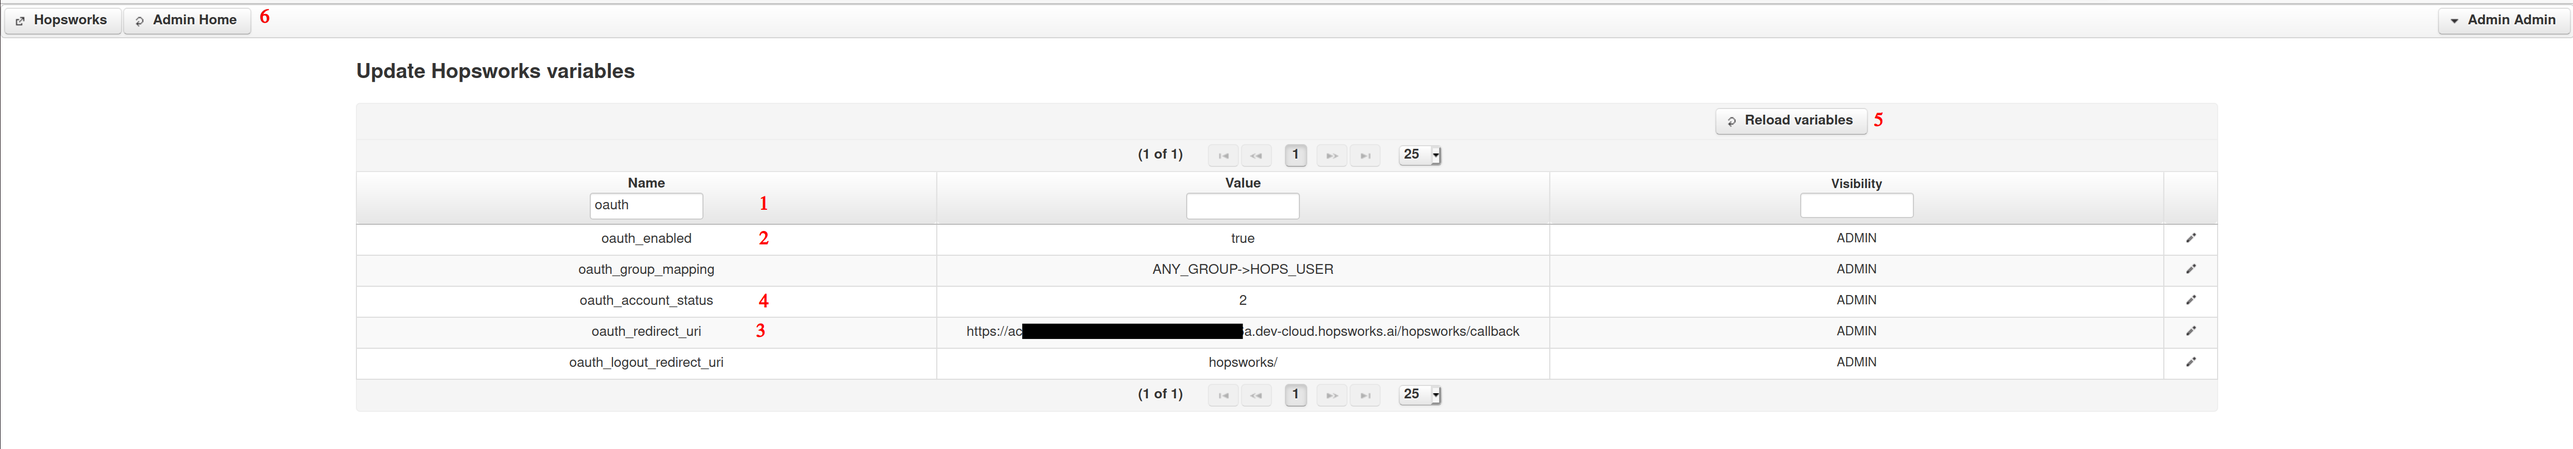
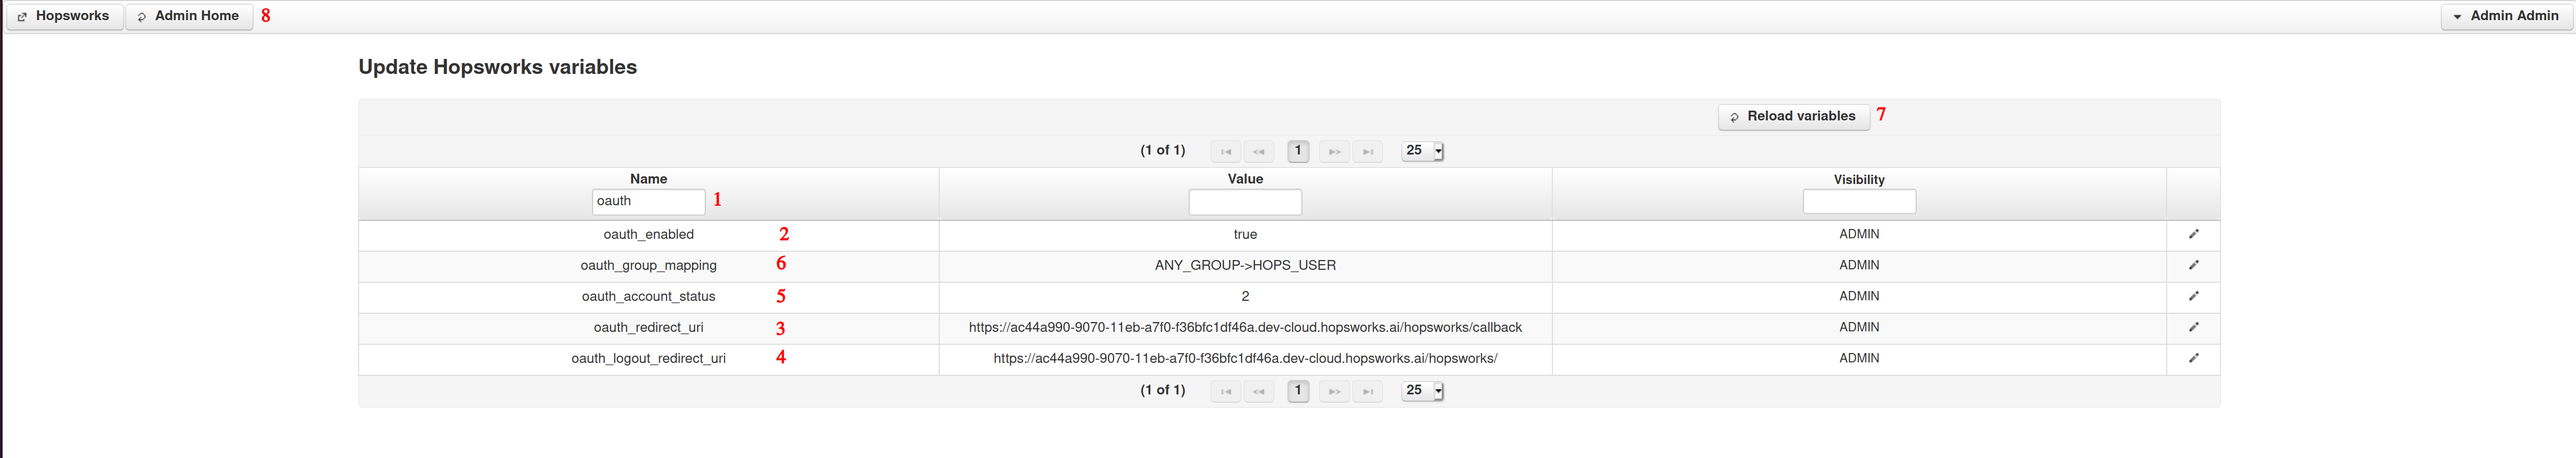
fixes for review

diff --git a/docs/hopsworksai/sso/oauth.md b/docs/hopsworksai/sso/oauth.md
@@ -1,10 +1,10 @@
 # Configure your hopsworks cluster to use OAuth2 for user management.
 Once you have created a Hopsworks cluster you can configure it to use OAuth2 for its access control.
 We will go through a step-by-step description of the configuration process.
-To illustrate our explanation We will use Azure Active Directory as the identity provider, but the same can be done with any resource provider supporting OAuth2.
+To illustrate our explanation We will use Azure Active Directory as the identity provider, but the same can be done with any identity provider supporting OAuth2.
 
 ## Step 1: Configure your identity provider.
-To use OAuth2 in hopsworks you first need to create and configure an OAuth client in your resource provider. We will take the example of Azure AD for the remaining of this documentation, but equivalent steps can be taken on other identity providers.
+To use OAuth2 in hopsworks you first need to create and configure an OAuth client in your identity provider. We will take the example of Azure AD for the remaining of this documentation, but equivalent steps can be taken on other identity providers.
 
 Navigate to the [Microsoft Azure Portal](https://portal.azure.com) and authenticate. Navigate to [Azure Active Directory](https://portal.azure.com/#blade/Microsoft_AAD_IAM/ActiveDirectoryMenuBlade/Overview). Click on [App Registrations](https://portal.azure.com/#blade/Microsoft_AAD_IAM/ActiveDirectoryMenuBlade/RegisteredApps). Click on *New Registration*.
 
@@ -139,7 +139,7 @@ Click on *Edit variables*
   </figure>
 </p>
 
-Enter *oauth* in the *Name* entry field (1). Set *oauth_enabled* to *true* (2).Set *oauth_redirect_uri* to the same redirect URI as above (3). Set *oauth_account_status* to 2 (4). Set *oauth_group_mapping* to *ANY_GROUP->HOPS_USER* (5). Click on *Reload variables* (6) and click on *Admin Home* (7). 
+Enter *oauth* in the *Name* entry field (1). Set *oauth_enabled* to *true* (2).Set *oauth_redirect_uri* to the same redirect URI as above (3). Set *oauth_logout_redirect_uri* to the same redirect URI as above without the *callback* at the end (4). Set *oauth_account_status* to 2 (5). Set *oauth_group_mapping* to *ANY_GROUP->HOPS_USER* (6). Click on *Reload variables* (7) and click on *Admin Home* (8). 
 
 !!! Note
         If you let the value 1 for *oauth_account_status* an administrator will need to enable the user in hopsworks each time a new user tries to login with OAuth. 
